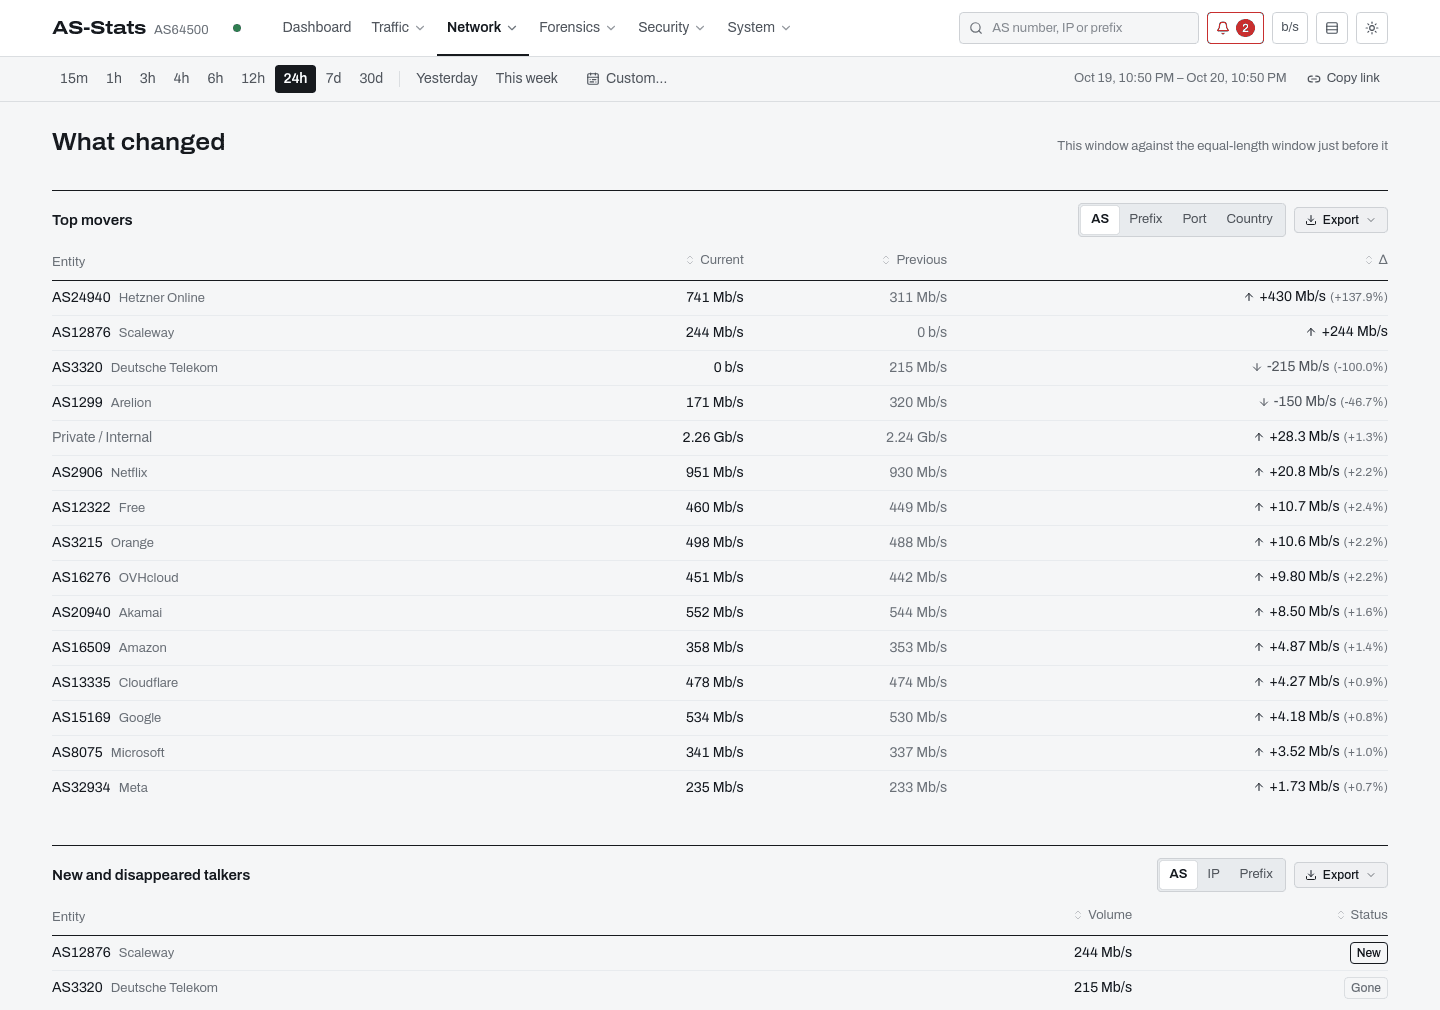
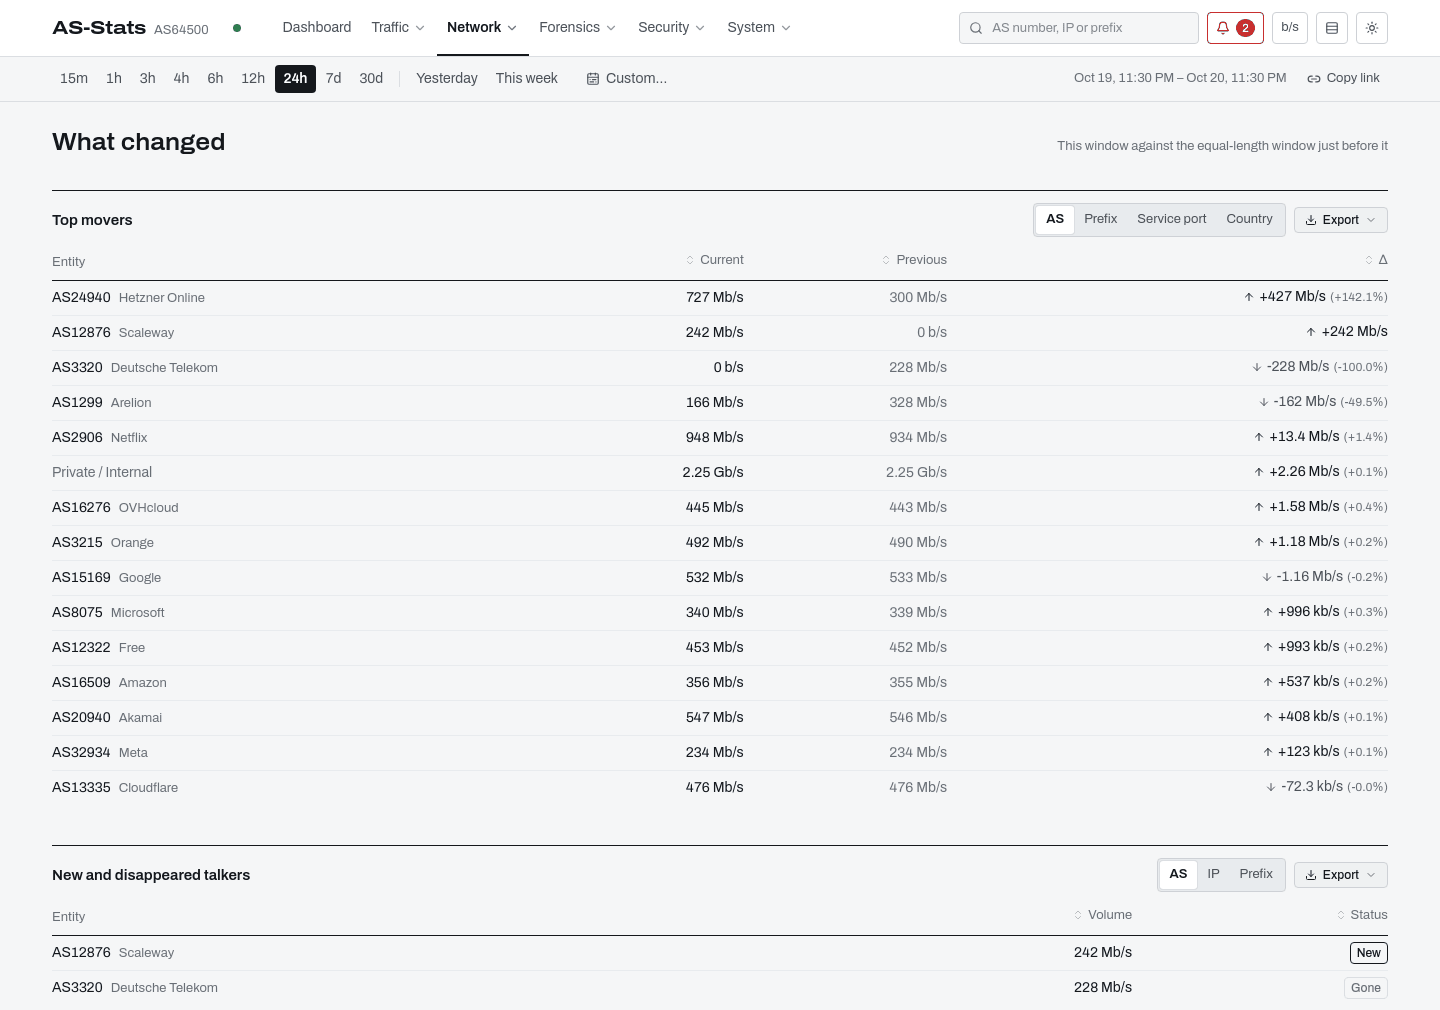
docs: port statistics semantics, 3.5 upgrade note, private AS grouping
- CLAUDE.md: "Port statistics (migration 000018)" section, the legacy
  follower, per-AS grouping convention, bugs #21 (two views writing the
  same entity of a flow) and #22 (per-AS list without the private fold).
- README: what Top Protocols / Top Ports count, the 3.5 upgrade note
  (port history restarts, traffic_by_port_legacy ages out), retention
  table.
- CHANGELOG [Unreleased].
- Screenshots: Changes (movers "Service port") and Flow Search ("Either
  port") regenerated from the demo stack with this build, pngquant +
  oxipng.

Claude-Session: https://claude.ai/code/session_01JMwSDERtkGKrYAcoAfT5Bp

diff --git a/CLAUDE.md b/CLAUDE.md
@@ -29,7 +29,10 @@ in `frontend/`.
   reads** to handle not-yet-merged rows.
 - **Separate MVs per direction** (`_in_mv` / `_out_mv`) writing to the same
   target table — no `UNION ALL` in MVs (ClickHouse does not support it for
-  this pattern).
+  this pattern). That is right only when the two views write *different
+  entities* of one flow (src AS / dst AS, src IP / dst IP); two views writing
+  the same entity count every flow twice (bug #21, `traffic_by_port`, now one
+  view keyed on `flows_raw.direction`).
 - **IPv6 columns everywhere** — IPv4 is stored as IPv4-mapped IPv6
   (`::ffff:1.2.3.4`). This is the source of two distinct bug families that
   have already cost us:
@@ -155,7 +158,9 @@ UDP socket ─► [Reader, 1 goroutine] ─► packets channel (workers×64 buff
 | `internal/store/step.go` | Source-table + bucket-width planner (`linkSeriesPlan`, `asSeriesPlan`, `ipSeriesPlan`, `capacityPlan`) and the exported `*StepSeconds` helpers handlers put in `meta.step_seconds`. |
 | `internal/store/names.go` | `asNamesLatest` / `linksLatest`: deduplicated views every name join must use (see bug #15). |
 | `internal/store/status.go` | `LiveStatus` for `GET /status/live` (10-min flows_raw scan + configured routers + disk). |
-| `internal/store/flow_log.go` | `SearchFlowLog`, `FlowLogTimeSeries`, `TopProtocols`, `TopPorts`. Every flow-log read goes through `flowLogReadTable` (`flows_log_all`) + `flowLogTimeFilter` — see "Flow log layout" and bug #18. (`SetFlowLogRetention` removed — retention is now in `retention.go`.) |
+| `internal/store/port_stats.go` | `TopProtocols`, `TopPorts` (read `traffic_by_port` only, Inbound/Outbound = `direction IN ('in','out')`, percent per direction), `ServicePort` (Go mirror of the 000018 view), `PortHistorySince`. See "Port statistics". |
+| `internal/store/as_group.go` | `groupedAS` / `groupedASName`: the private-use ASN fold every per-AS list must group on (`TestPerASListsGroupPrivateASNs`). |
+| `internal/store/flow_log.go` | `SearchFlowLog` (`port` = either side), `FlowLogTimeSeries`. Every flow-log read goes through `flowLogReadTable` (`flows_log_all`) + `flowLogTimeFilter` — see "Flow log layout" and bug #18. (`SetFlowLogRetention` removed — retention is now in `retention.go`.) |
 | `internal/store/threats.go` | Live Threats queries: `ThreatCandidates`, `ThreatBaselines`, `ThreatPeerBaselines`, `ThreatPorts`, `ThreatSeries`. Classification lives in `api/handler/threat_classify.go` (pure, table-tested). See "Live Threats". |
 | `internal/store/alerts.go` | Alert rules / alerts / webhooks / audit log CRUD. `AlertDetails` JSON marshaling for `details` column. |
 | `internal/store/alert_queries.go` | `Eval*` query helpers used by the alert engine (incl. `EvalDiskUsage`, `EvalLinkCapacity`, `EvalAnomaly`). **`buildCIDRFilter` lives here** — read its docstring before touching any IP filtering code. |
@@ -175,7 +180,7 @@ UDP socket ─► [Reader, 1 goroutine] ─► packets channel (workers×64 buff
 | `internal/services/wellknown.go` | IANA protocol + well-known port name resolution (used by Flow Search and Top Ports). |
 | `internal/model/` | Shared types: `FlowRecord`, `ASTraffic`, `IPTraffic`, `LiveThreats` / `ThreatRow`, `AlertRule`, etc. |
 | `internal/config/` | Env-var config loading. `LoadCollector` and `LoadAPI`. |
-| `migrations/` | ClickHouse DDL, numbered 000001–000017 (000007–000013 include feature-gated tables; 000012 `retention_policies`, 000013 `report_schedules`, 000014 `api_tokens`, 000015 hot-table `SimpleAggregateFunction` fix, 000016 `retention_policies.cold_after_days`, 000017 `flows_log` sort key + `flows_log_legacy` + `flows_log_all`). Every released schema level has a `DetectBaseline` probe in `internal/migrate/clickhouse.go` — add one with each migration. Embedded in and applied by `cmd/migrate` (the `migrate` service runs before collector/api), which records each file's SHA-256 — **never edit a released migration**, add a new one. |
+| `migrations/` | ClickHouse DDL, numbered 000001–000018 (000007–000013 include feature-gated tables; 000012 `retention_policies`, 000013 `report_schedules`, 000014 `api_tokens`, 000015 hot-table `SimpleAggregateFunction` fix, 000016 `retention_policies.cold_after_days`, 000017 `flows_log` sort key + `flows_log_legacy` + `flows_log_all`, 000018 `traffic_by_port` one row per flow + `traffic_by_port_legacy` + `traffic_by_port_mv`). Every released schema level has a `DetectBaseline` probe in `internal/migrate/clickhouse.go` — add one with each migration. Embedded in and applied by `cmd/migrate` (the `migrate` service runs before collector/api), which records each file's SHA-256 — **never edit a released migration**, add a new one. |
 | `frontend/src/pages/` | One React page per route in `App.tsx`. |
 | `frontend/src/hooks/` | TanStack Query hooks (`useApi.ts`), URL-synced filters (`useFilters.ts`), unit toggle (`useUnit.ts`), chart theme (`useChartColors.ts`), DNS (`useDns.ts`), feature flags (`useFeatures.ts`). |
 | `frontend/src/components/charts/` | `TrafficChart` (single in/out), `LinkTrafficChart` (stacked by link), `ASTrafficChart` (stacked by AS) — all Recharts `AreaChart` with `stepAfter`. |
@@ -225,7 +230,8 @@ feature flag is enabled.
 | `flows_log_legacy` | `FEATURE_FLOW_SEARCH` | The pre-000017 `flows_log` (old sort key), kept instead of copied; follows the `flows_log` retention and empties itself. Empty on fresh installs. |
 | `flows_log_all` | `FEATURE_FLOW_SEARCH` | `Merge(currentDatabase(), '^flows_log(_legacy)?$')` — the read side of the flow log. |
 | `report_schedules` | `FEATURE_REPORTS` | Scheduled HTML+CSV email reports (`ReplacingMergeTree`, soft-delete). Cron goroutine in the collector sends via SMTP. |
-| `traffic_by_port` | `FEATURE_PORT_STATS` | Aggregates per `(link, direction, protocol, port)`, 5-min, 1y TTL. |
+| `traffic_by_port` | `FEATURE_PORT_STATS` | Per `(link, direction, protocol, service port, ip_version)`, 5-min, 1y TTL. **One row per flow** since 000018 (`traffic_by_port_mv`); see "Port statistics". |
+| `traffic_by_port_legacy` | `FEATURE_PORT_STATS` | The pre-000018 table (every flow counted twice). **Never read**; follows the `traffic_by_port` retention and empties itself. Empty on fresh installs. |
 | `traffic_by_dst_1min` | `FEATURE_ALERTS` | `AggregatingMergeTree` keyed by `(ts, dst_ip, protocol)`. Stores `bytes`, `packets`, `flow_count`, `syn_count`, plus HyperLogLog sketches `unique_src_ips` / `unique_src_ports`. 7d TTL. **Used exclusively by the alert engine and Live Threats** — no other on-demand queries. |
 | `traffic_by_src_1min` | `FEATURE_ALERTS` | Symmetric for outbound traffic. Used by `volume_out` / `port_scan`. |
 | `alert_rules` | `FEATURE_ALERTS` | Configurable detection rules (`ReplacingMergeTree`). 10 default rules seeded on first startup (idempotent — only if the table is empty). |
@@ -264,6 +270,44 @@ window 0.16 s both; 1.01 GiB → 892 MiB per day.
   recovery notes are in the migration file.
 - A column added to `flows_log` must also exist on `flows_log_legacy` (or the
   Merge read breaks) until the legacy table is dropped by a later release.
+
+### Port statistics (migration 000018)
+
+`traffic_by_port` is fed by **one** view, `traffic_by_port_mv`: one row per
+`flows_raw` row, never two (bug #21).
+
+- `direction` = `flows_raw.direction` when the flow was credited to a
+  configured link (`'in'` entered our network on it, `'out'` left it), and
+  `''` when `link_tag = ''` — even if the exporter sent a flowDirection,
+  which is router-relative. `''` rows are stored (so `sum(flow_count)` over the
+  table equals `count()` of `flows_raw`) but Top Protocols / Top Ports list
+  only `IN ('in','out')` (`portDirectionFilter`), the population of the link
+  totals; Movers by port is direction-agnostic and includes them.
+- `port` = the **service port**: `least(src_port, dst_port)` when both are set
+  (client ports are ephemeral), the non-zero one otherwise, `0` for ICMP /
+  ICMPv6 (1 / 58) and portless protocols (GRE, ESP…, kept so per-protocol sums
+  are exact). Go mirror: `store.ServicePort`; `TestIntegrationPortStats` checks
+  the SQL against it on a 405-tuple grid. Top Ports hides port 0 except ICMP.
+- Percentages in Top Protocols / Top Ports are of the row's **direction**.
+  Drill-down to Flow Search uses `port` (either side), not `dst_port`.
+- **Migration**: create `traffic_by_port_new`, `DROP VIEW` the two 000007
+  views, `EXCHANGE TABLES`, `RENAME … TO traffic_by_port_legacy`, `CREATE
+  MATERIALIZED VIEW traffic_by_port_mv`. The old views are dropped *before*
+  the swap, or they would write old-semantics rows into the new table; no
+  view ever targets a missing name (bug #19), so no INSERT fails. Each insert
+  block lands in the new table exactly once (inserted after the CREATE) or not
+  at all; blocks inserted in the milliseconds between DROP and CREATE are in
+  neither table (start of the new history). `TestIntegrationPortStatsMigration`:
+  4 inserters across the migration, per-inserter suffix property, 0 errors;
+  ad hoc, 300 cycles of the DDL sequence under 2,418 concurrent INSERTs, 0
+  failures. Guards refuse a re-run; recovery notes in the file.
+- **History restarts** at the upgrade (the old rows cannot be split back into
+  flows). `PortHistorySince` (system.parts only) returns the start of the new
+  history while `traffic_by_port_legacy` still has parts; the handlers put it
+  in `meta.port_history_since` when the window (Movers: the prior window)
+  reaches back before it, and the pages say so.
+- `traffic_by_port_legacy` is a retention follower of `traffic_by_port` and is
+  **never read** (`TestNoLegacyPortReads`, `TestPortReadersReadOnlyTheNewTable`).
 
 ### Retention subsystem (v2, Module A)
 
@@ -321,14 +365,16 @@ disk", `clickhouse/config.d/storage-hot-cold.xml.example`) — its hot volume
   `default`, second volume `cold`, plain-identifier name). Zero / several
   candidates or a non-default current policy: left alone, logged once. This is
   how the 000017 `flows_log` (created on `default`) inherits prod's `hot_cold`.
-- **Followers** (`retentionFollowers`: `flows_log_legacy` → `flows_log`): in the
-  whitelist (so DDL builders accept them) but never seeded, `SetRetentionPolicy`
+- **Followers** (`retentionFollowers`: `flows_log_legacy` → `flows_log`,
+  `traffic_by_port_legacy` → `traffic_by_port`): in the whitelist (so DDL builders accept them) but never seeded, `SetRetentionPolicy`
   refuses them, and the reconciler applies the leader's policy (adoption, TTL,
   expired and cold sweeps) to them — only while they exist **and have active
   parts**, so an empty legacy table is never touched. `StorageStats` marks
   them `legacy` / `retention_follows` (read-only row in Admin › Storage).
-  `EnsureRetentionPolicies` seeds `flows_log` from `flows_log_legacy`'s live
-  TTL when present (the new table only carries the migration default).
+  `EnsureRetentionPolicies` seeds a leader without a policy row from its
+  follower's live TTL when present (the new table only carries the migration
+  default). This is how the 000018 `traffic_by_port` inherits prod's hot_cold
+  policy (`adoptColdPolicy`) and the legacy table keeps aging out.
 - `disk_usage` and `/status/live` use `fullestDisk` over **all** disks.
 - `TestIntegrationColdTier` (needs a policy with a `cold` volume, skipped
   otherwise) checks moves, convergence, no-op cycles and ttl changes.
@@ -397,8 +443,8 @@ Registered only when the corresponding `FEATURE_*` env var is set.
 | `GET` | `/flows/search` | `FLOW_SEARCH` | `?format=csv` for export, max 100k rows |
 | `GET` | `/flows/timeseries` | `FLOW_SEARCH` | drill-down |
 | `GET` | `/conversations` | `FLOW_SEARCH` | bidirectional top-talkers (`dim=src_dst_ip/src_dst_as/dst_port_proto`) |
-| `GET` | `/top/protocol` | `PORT_STATS` | |
-| `GET` | `/top/port` | `PORT_STATS` | |
+| `GET` | `/top/protocol` | `PORT_STATS` | per (protocol, direction in/out); `meta.port_history_since` while the port history is younger than the window |
+| `GET` | `/top/port` | `PORT_STATS` | service ports, `LIMIT … BY direction`; same `meta.port_history_since` (also on `/changes/movers?dimension=port`) |
 | `GET` | `/alerts` | `ALERTS` | |
 | `GET` | `/alerts/summary` | `ALERTS` | header badge counts |
 | `GET` | `/threats/live` | `ALERTS` | Live Threats — local hosts ranked by deviation from their own history (`direction=in/out`, `window`, `limit`, `all=0/1`); 30 s cache group. See "Live Threats" |
@@ -694,6 +740,12 @@ alert rule use the same busier-direction definition.
   `as_names` / `links` tables (bug #15).
 - **SQL**: group and filter on typed `IPv6` columns; `toString()` only the
   rows you return (after `LIMIT`).
+- **SQL**: every list with one row per AS groups on `groupedAS(col)` and
+  labels with `groupedASName` (private-use ASNs → one `PrivateASGroup` row,
+  sentinel 4294967295); add new readers to `TestPerASListsGroupPrivateASNs`.
+  The frontend renders AS identities with `ASRef` / `asPath` (the sentinel is
+  a non-clickable "Private / Internal") and never builds a flow filter from it.
+  Per-IP / per-prefix rows keep the address's real origin ASN.
 - **Tests**: `ASSTATS_IT_CLICKHOUSE=host:9000 go test ./internal/store
   ./internal/api/handler -run Integration` runs every read / alert query
   (and Live Threats end to end) against a throwaway ClickHouse with the
@@ -854,6 +906,22 @@ frontend lint + typecheck + build).
     last, so a completed migration read as dirty. `Append` now binds a
     nanosecond string into `toDateTime64(?, 9, 'UTC')`, and `History`
     tie-breaks `applying` first.
+
+21. **Two views writing the same entity of one flow.** 000007 fed
+    `traffic_by_port` from `_in_mv` (direction `'in'`, `dst_port`) and `_out_mv`
+    (direction `'out'`, `src_port`) over the *same* `flows_raw` rows: every flow
+    was stored twice, "direction" only said which port column had been copied,
+    Top Protocols showed in == out by construction (~35 GiB a year of it in
+    production), and Top Ports "in" listed every download's ephemeral client
+    port. Fixed by 000018 (one view, `flows_raw.direction`, service port). A
+    per-direction view pair is only valid when the two write different
+    entities (src AS vs dst AS); test any new rollup with
+    `sum(flow_count) == count(flows_raw)`.
+
+22. **A per-AS list that skips the private-use fold.** The IP detail page's
+    "Traffic by AS" (and AS peers, the anomaly explanation) listed 64512,
+    65001, 4200000001… one by one, nameless, while every other view showed one
+    "Private / Internal" row. Group on `groupedAS` (code conventions above).
 
 ## Operational notes — ClickHouse
 

diff --git a/README.md b/README.md
@@ -57,7 +57,7 @@ on Go, ClickHouse and React.
 
 **Forensics**
 - Flow log (`FEATURE_FLOW_SEARCH`): search per-tuple flows by IP or CIDR, AS, port, protocol and time, CSV export up to 100,000 rows, 180-day default retention; a conversations explorer for bidirectional top talkers.
-- Top protocols and ports with IANA service names (`FEATURE_PORT_STATS`).
+- Top protocols and ports with IANA service names (`FEATURE_PORT_STATS`): each flow counted once, inbound / outbound by the link it crossed, under its service port (the lower of its two ports, so a download from a web server counts under 443, not under the client's ephemeral port).
 
 **Operations**
 - Collector for NetFlow v5 / v9, IPFIX and sFlow v5, parsed in Go. Decoding a NetFlow v5 record takes under 0.3 µs on one core (`BenchmarkDecodeV5`, 30-record packets). One production deployment runs on a single node and ingests about 1,300 flows/s, unsampled, from two routers.
@@ -226,6 +226,23 @@ cold tier) and **empties itself** as its partitions age out — within the
 switched to a hot/cold storage policy, the new table is switched to it by the
 reconciler on its first cycle (see step 3 of
 [Cold storage on a second disk](#cold-storage-on-a-second-disk)).
+
+**Upgrading to 3.5 (port statistics, migration 000018): no manual step, but
+port history restarts.** Until 3.4, `traffic_by_port` stored every flow twice
+— once as "in" under its destination port, once as "out" under its source
+port — so Top Protocols showed inbound = outbound and every total was doubled.
+From 3.5 each flow is stored once, under the direction of the link it crossed
+and its service port. The old rows cannot be split back into flows, so they are
+**not converted**: the migration keeps the table as `traffic_by_port_legacy`
+(atomic `EXCHANGE TABLES`, milliseconds, the collector keeps inserting) and
+starts an empty `traffic_by_port`. Top Protocols, Top Ports and Changes › port
+movers read only the new table and say so while the selected window reaches
+back before the upgrade. `traffic_by_port_legacy` is never shown; it follows
+the `traffic_by_port` retention and cold tier and **empties itself** (365 days
+by default); Admin › Storage lists it as *legacy (pre-3.5 port stats), expires
+by itself*. As in 3.4, a hot/cold storage policy is re-applied to the new table
+by the reconciler. Flows on no configured link are stored with no direction and
+are not listed under Inbound / Outbound (as in the link totals).
 
 ### Reverse proxy
 
@@ -515,6 +532,8 @@ old layout until it ages out (see the 3.4 upgrade note above).
 | `traffic_by_prefix` | 5 min | 30 days |
 | `flows_log` *(opt)* | per tuple | 180 days *(configurable)* |
 | `flows_log_legacy` *(after the 3.4 upgrade)* | per tuple | follows `flows_log` |
+| `traffic_by_port` *(opt)* | 5 min | 365 days |
+| `traffic_by_port_legacy` *(after the 3.5 upgrade, never read)* | 5 min | follows `traffic_by_port` |
 | `traffic_by_dst_1min` / `traffic_by_src_1min` *(opt)* | 1 min | 7 days |
 
 All TTLs are enforced by ClickHouse itself — no cron jobs to maintain.
@@ -620,7 +639,8 @@ but is still on ClickHouse's `default` policy, and **exactly one** configured
 policy has a first volume `default` (disk `default`) followed by a volume
 `cold`, the reconciler runs this `ALTER` itself and logs it. With no such
 policy, or several, it leaves the table alone and logs why once. This is how
-the `flows_log` created by the 3.4 upgrade inherits `hot_cold`.
+the `flows_log` created by the 3.4 upgrade and the `traffic_by_port` created by
+the 3.5 upgrade inherit `hot_cold`.
 
 **4. Set "Move to cold after (days)"** next to the retention in Admin ›
 Storage (or `PUT /admin/retention/{table}` with `{"ttl_days": 240,

diff --git a/CHANGELOG.md b/CHANGELOG.md
@@ -7,6 +7,38 @@ and this project adheres to [Semantic Versioning](https://semver.org/spec/v2.0.0
 
 ## [Unreleased]
 
+### Fixed
+- **Port statistics counted every flow twice, and their "direction" was not a
+  direction.** `traffic_by_port` was fed by two views over the same flows: one
+  stored each flow as "in" under its destination port, the other stored it
+  again as "out" under its source port. Totals were doubled, Top Protocols
+  showed inbound = outbound for every protocol, and Top Ports listed the
+  ephemeral client ports of every download. Migration 000018 replaces them by
+  one view: each flow once, `in` / `out` = the direction of the configured
+  link it crossed, under its **service port** (the lower of its two ports; the
+  non-zero one if one is 0; none for ICMP / ICMPv6 and portless protocols).
+  Flows on no configured link are stored without a direction and are not
+  listed under Inbound / Outbound, like the link totals. Percentages are now
+  per direction, and a port links to Flow Search on either side
+  (`/flows/search?port=`, new).
+- **Upgrade: port history restarts at 3.5.** The old rows cannot be split back
+  into flows, so they are not converted: the migration keeps them as
+  `traffic_by_port_legacy` (atomic `EXCHANGE TABLES`, milliseconds, the
+  collector keeps inserting; no INSERT fails) and starts an empty
+  `traffic_by_port`. Top Protocols, Top Ports and Changes › port movers read
+  only the new table and show a note while the selected window reaches back
+  before the upgrade (`meta.port_history_since`). The legacy table is never
+  shown, follows the `traffic_by_port` retention and cold tier, and empties
+  itself; Admin › Storage lists it as *legacy (pre-3.5 port stats)*.
+- **Private-use ASNs listed one by one on the IP page.** "Traffic by AS" on an
+  IP's detail page, `/as/{asn}/peers` and the anomaly explanation's top source
+  ASes now fold 64512–65534 and 4200000000–4294967294 into the single
+  "Private / Internal" row, like every other view. That row is never a link,
+  in the anomaly explanation and conversations included, and scheduled
+  reports no longer print it as "AS4294967295".
+- Flow Search opened from another page now applies the protocol, port and AS
+  filters and the period of the link (it only read the IPs and the range).
+
 ## [3.4.0] - 2026-10-20
 
 ### Changed
